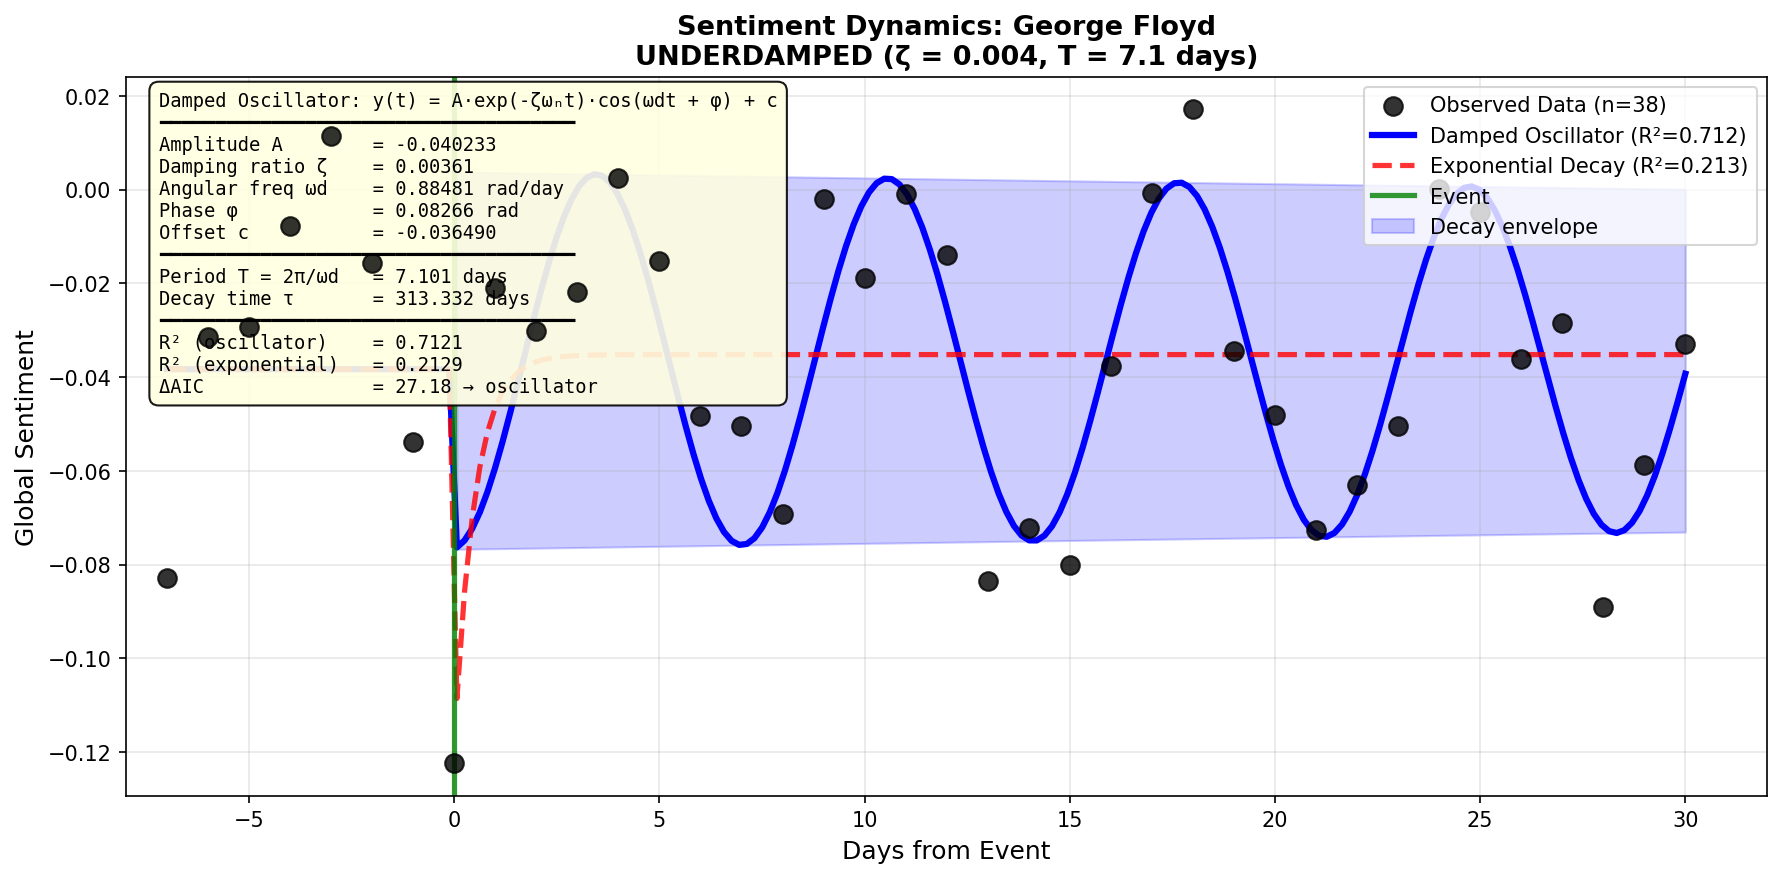
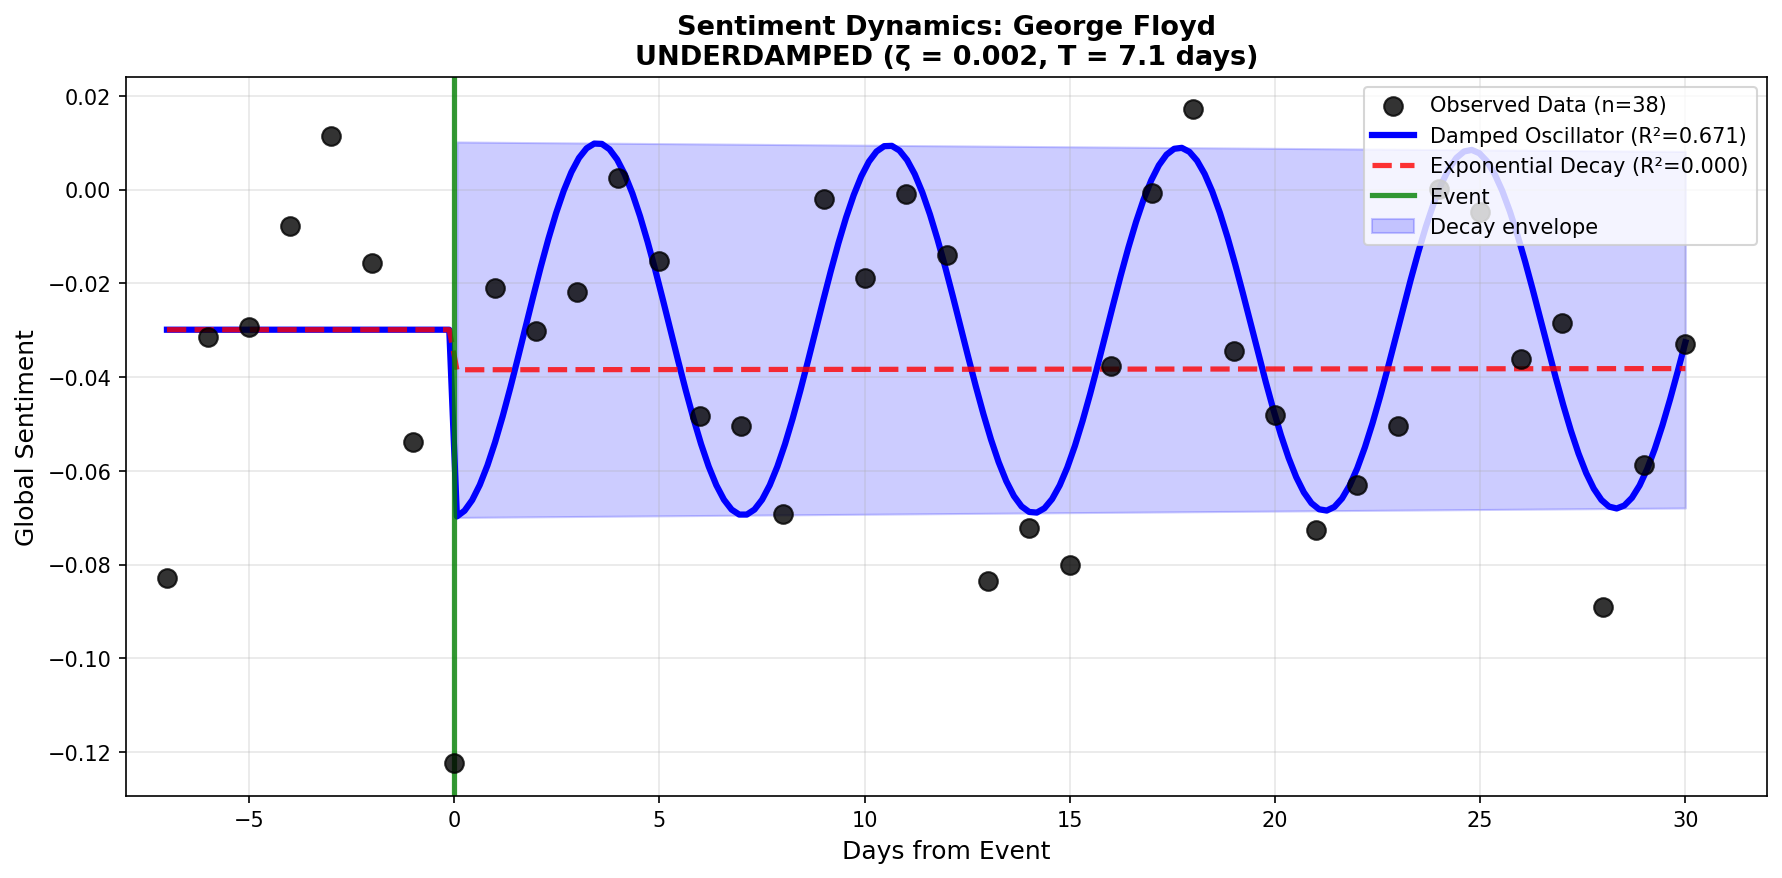
Remove parameter boxes from plots and add CSV export
- Remove in-figure parameter text boxes from trajectory plots
- Export fitted parameters to CSV files (fitted_parameters.csv,
  sentiment_fitted_parameters.csv) for easier data analysis
- Regenerate figures without cluttered parameter overlays

Changed region(s): [[0.0617, 0.0923, 0.9568, 0.7688], [0.9568, 0.1538, 0.9877, 0.2153]]

diff --git a/empirical/public_datasets/election2020/election_sentiment_dynamics.py b/empirical/public_datasets/election2020/election_sentiment_dynamics.py
@@ -730,26 +730,6 @@ def plot_fitted_trajectories(
                 f"ΔAIC = {delta_aic:.1f} ({better})")
         ax.set_title(title, fontsize=11, fontweight='bold')
 
-        # Add parameter box
-        param_text = (
-            f"Oscillator Model: y(t) = A·exp(-ζωₙt)·cos(ωdt + φ) + c\n"
-            f"────────────────────────────────\n"
-            f"A (amplitude)     = {traj.amplitude:.4f}\n"
-            f"ζ (damping ratio) = {traj.damping_ratio:.4f}\n"
-            f"ωd (angular freq) = {traj.angular_freq:.4f} rad/day\n"
-            f"ωn (natural freq) = {traj.natural_freq:.4f} rad/day\n"
-            f"φ (phase)         = {traj.phase:.4f} rad\n"
-            f"c (offset)        = {traj.offset:.4f}\n"
-            f"────────────────────────────────\n"
-            f"Period T = 2π/ωd  = {traj.period_days:.2f} days\n"
-            f"Decay τ = 1/ζωn   = {traj.decay_time:.2f} days"
-        )
-
-        # Position text box
-        props = dict(boxstyle='round,pad=0.5', facecolor='wheat', alpha=0.8)
-        ax.text(0.02, 0.98, param_text, transform=ax.transAxes, fontsize=8,
-                verticalalignment='top', fontfamily='monospace', bbox=props)
-
         print(f"    ζ = {traj.damping_ratio:.3f}, T = {traj.period_days:.1f} days")
         print(f"    R²(osc) = {traj.r2_oscillator:.3f}, R²(exp) = {traj.r2_exponential:.3f}")
         print(f"    ΔAIC = {delta_aic:.1f} → {better} model preferred")
@@ -801,28 +781,6 @@ def plot_fitted_trajectories(
             fontsize=13, fontweight='bold'
         )
 
-        param_text = (
-            f"Damped Oscillator: y(t) = A·exp(-ζωₙt)·cos(ωdt + φ) + c\n"
-            f"━━━━━━━━━━━━━━━━━━━━━━━━━━━━━━━━━━━━━\n"
-            f"Amplitude A        = {traj.amplitude:.5f}\n"
-            f"Damping ratio ζ    = {traj.damping_ratio:.5f}\n"
-            f"Damped freq ωd     = {traj.angular_freq:.5f} rad/day\n"
-            f"Natural freq ωn    = {traj.natural_freq:.5f} rad/day\n"
-            f"Phase φ            = {traj.phase:.5f} rad\n"
-            f"Offset c           = {traj.offset:.5f}\n"
-            f"━━━━━━━━━━━━━━━━━━━━━━━━━━━━━━━━━━━━━\n"
-            f"Period T = 2π/ωd   = {traj.period_days:.3f} days\n"
-            f"Decay time τ       = {traj.decay_time:.3f} days\n"
-            f"━━━━━━━━━━━━━━━━━━━━━━━━━━━━━━━━━━━━━\n"
-            f"R² (oscillator)    = {traj.r2_oscillator:.4f}\n"
-            f"R² (exponential)   = {traj.r2_exponential:.4f}\n"
-            f"ΔAIC               = {delta_aic:.2f} → {better}"
-        )
-
-        props = dict(boxstyle='round,pad=0.5', facecolor='lightyellow', alpha=0.9)
-        ax.text(0.02, 0.98, param_text, transform=ax.transAxes, fontsize=9,
-                verticalalignment='top', fontfamily='monospace', bbox=props)
-
         plt.tight_layout()
         single_path = os.path.join(output_dir, f'trajectory_{traj.event_name}.png')
         plt.savefig(single_path, dpi=150, bbox_inches='tight', facecolor='white')
@@ -845,6 +803,35 @@ def plot_fitted_trajectories(
               f"{delta_aic:>10.2f} {better:>12}")
 
     print("-" * 90)
+
+    # Save parameters to CSV
+    params_data = []
+    for traj in trajectories:
+        delta_aic = traj.aic_exponential - traj.aic_oscillator
+        better = "oscillator" if delta_aic > 2 else ("exponential" if delta_aic < -2 else "neither")
+        params_data.append({
+            'event': traj.event_name,
+            'amplitude_A': traj.amplitude,
+            'damping_ratio_zeta': traj.damping_ratio,
+            'damping_coeff_zeta_omega': traj.damping_coeff,
+            'angular_freq_omega_d': traj.angular_freq,
+            'natural_freq_omega_n': traj.natural_freq,
+            'phase_phi': traj.phase,
+            'offset_baseline': traj.offset,
+            'period_days': traj.period_days,
+            'decay_time_days': traj.decay_time,
+            'r2_oscillator': traj.r2_oscillator,
+            'r2_exponential': traj.r2_exponential,
+            'aic_oscillator': traj.aic_oscillator,
+            'aic_exponential': traj.aic_exponential,
+            'delta_aic': delta_aic,
+            'preferred_model': better
+        })
+
+    params_df = pd.DataFrame(params_data)
+    csv_path = os.path.join(output_dir, 'fitted_parameters.csv')
+    params_df.to_csv(csv_path, index=False)
+    print(f"\n  Parameters saved to: {csv_path}")
 
     return trajectories
 

diff --git a/empirical/public_datasets/sentiment_index/sentiment_index_dynamics.py b/empirical/public_datasets/sentiment_index/sentiment_index_dynamics.py
@@ -746,25 +746,6 @@ def plot_fitted_event_trajectories(
                 f"ΔAIC = {delta_aic:.1f} ({better})")
         ax.set_title(title, fontsize=11, fontweight='bold')
 
-        # Parameter box
-        param_text = (
-            f"Damped Oscillator Model\n"
-            f"y(t) = A·exp(-ζωₙt)·cos(ωdt + φ) + c\n"
-            f"────────────────────────────\n"
-            f"A (amplitude)     = {traj.amplitude:.5f}\n"
-            f"ζ (damping ratio) = {traj.damping_ratio:.4f}\n"
-            f"ωd (angular freq) = {traj.angular_freq:.4f} rad/day\n"
-            f"φ (phase)         = {traj.phase:.4f} rad\n"
-            f"c (offset)        = {traj.offset:.5f}\n"
-            f"────────────────────────────\n"
-            f"Period T          = {traj.period_days:.2f} days\n"
-            f"Decay time τ      = {traj.decay_time:.2f} days"
-        )
-
-        props = dict(boxstyle='round,pad=0.5', facecolor='wheat', alpha=0.85)
-        ax.text(0.02, 0.98, param_text, transform=ax.transAxes, fontsize=8,
-                verticalalignment='top', fontfamily='monospace', bbox=props)
-
         print(f"    ζ = {traj.damping_ratio:.3f}, T = {traj.period_days:.1f} days, n = {traj.n_points}")
         print(f"    R²(osc) = {traj.r2_oscillator:.3f}, R²(exp) = {traj.r2_exponential:.3f}")
         print(f"    ΔAIC = {delta_aic:.1f} → {better} model preferred")
@@ -817,27 +798,6 @@ def plot_fitted_event_trajectories(
             fontsize=13, fontweight='bold'
         )
 
-        param_text = (
-            f"Damped Oscillator: y(t) = A·exp(-ζωₙt)·cos(ωdt + φ) + c\n"
-            f"━━━━━━━━━━━━━━━━━━━━━━━━━━━━━━━━━━━━━\n"
-            f"Amplitude A        = {traj.amplitude:.6f}\n"
-            f"Damping ratio ζ    = {traj.damping_ratio:.5f}\n"
-            f"Angular freq ωd    = {traj.angular_freq:.5f} rad/day\n"
-            f"Phase φ            = {traj.phase:.5f} rad\n"
-            f"Offset c           = {traj.offset:.6f}\n"
-            f"━━━━━━━━━━━━━━━━━━━━━━━━━━━━━━━━━━━━━\n"
-            f"Period T = 2π/ωd   = {traj.period_days:.3f} days\n"
-            f"Decay time τ       = {traj.decay_time:.3f} days\n"
-            f"━━━━━━━━━━━━━━━━━━━━━━━━━━━━━━━━━━━━━\n"
-            f"R² (oscillator)    = {traj.r2_oscillator:.4f}\n"
-            f"R² (exponential)   = {traj.r2_exponential:.4f}\n"
-            f"ΔAIC               = {delta_aic:.2f} → {better}"
-        )
-
-        props = dict(boxstyle='round,pad=0.5', facecolor='lightyellow', alpha=0.9)
-        ax.text(0.02, 0.98, param_text, transform=ax.transAxes, fontsize=9,
-                verticalalignment='top', fontfamily='monospace', bbox=props)
-
         plt.tight_layout()
         single_path = os.path.join(output_dir, f'trajectory_{traj.event_name}.png')
         plt.savefig(single_path, dpi=150, bbox_inches='tight', facecolor='white')
@@ -859,6 +819,35 @@ def plot_fitted_event_trajectories(
               f"{traj.r2_oscillator:>10.4f} {traj.r2_exponential:>10.4f} {delta_aic:>10.2f}")
 
     print("-" * 95)
+
+    # Save parameters to CSV
+    params_data = []
+    for traj in trajectories:
+        delta_aic = traj.aic_exponential - traj.aic_oscillator
+        better = "oscillator" if delta_aic > 2 else ("exponential" if delta_aic < -2 else "neither")
+        params_data.append({
+            'event': traj.event_name,
+            'n_points': traj.n_points,
+            'amplitude_A': traj.amplitude,
+            'damping_ratio_zeta': traj.damping_ratio,
+            'damping_coeff_zeta_omega': traj.damping_coeff,
+            'angular_freq_omega_d': traj.angular_freq,
+            'phase_phi': traj.phase,
+            'offset_baseline': traj.offset,
+            'period_days': traj.period_days,
+            'decay_time_days': traj.decay_time,
+            'r2_oscillator': traj.r2_oscillator,
+            'r2_exponential': traj.r2_exponential,
+            'aic_oscillator': traj.aic_oscillator,
+            'aic_exponential': traj.aic_exponential,
+            'delta_aic': delta_aic,
+            'preferred_model': better
+        })
+
+    params_df = pd.DataFrame(params_data)
+    csv_path = os.path.join(output_dir, 'sentiment_fitted_parameters.csv')
+    params_df.to_csv(csv_path, index=False)
+    print(f"\n  Parameters saved to: {csv_path}")
 
     return trajectories
 
